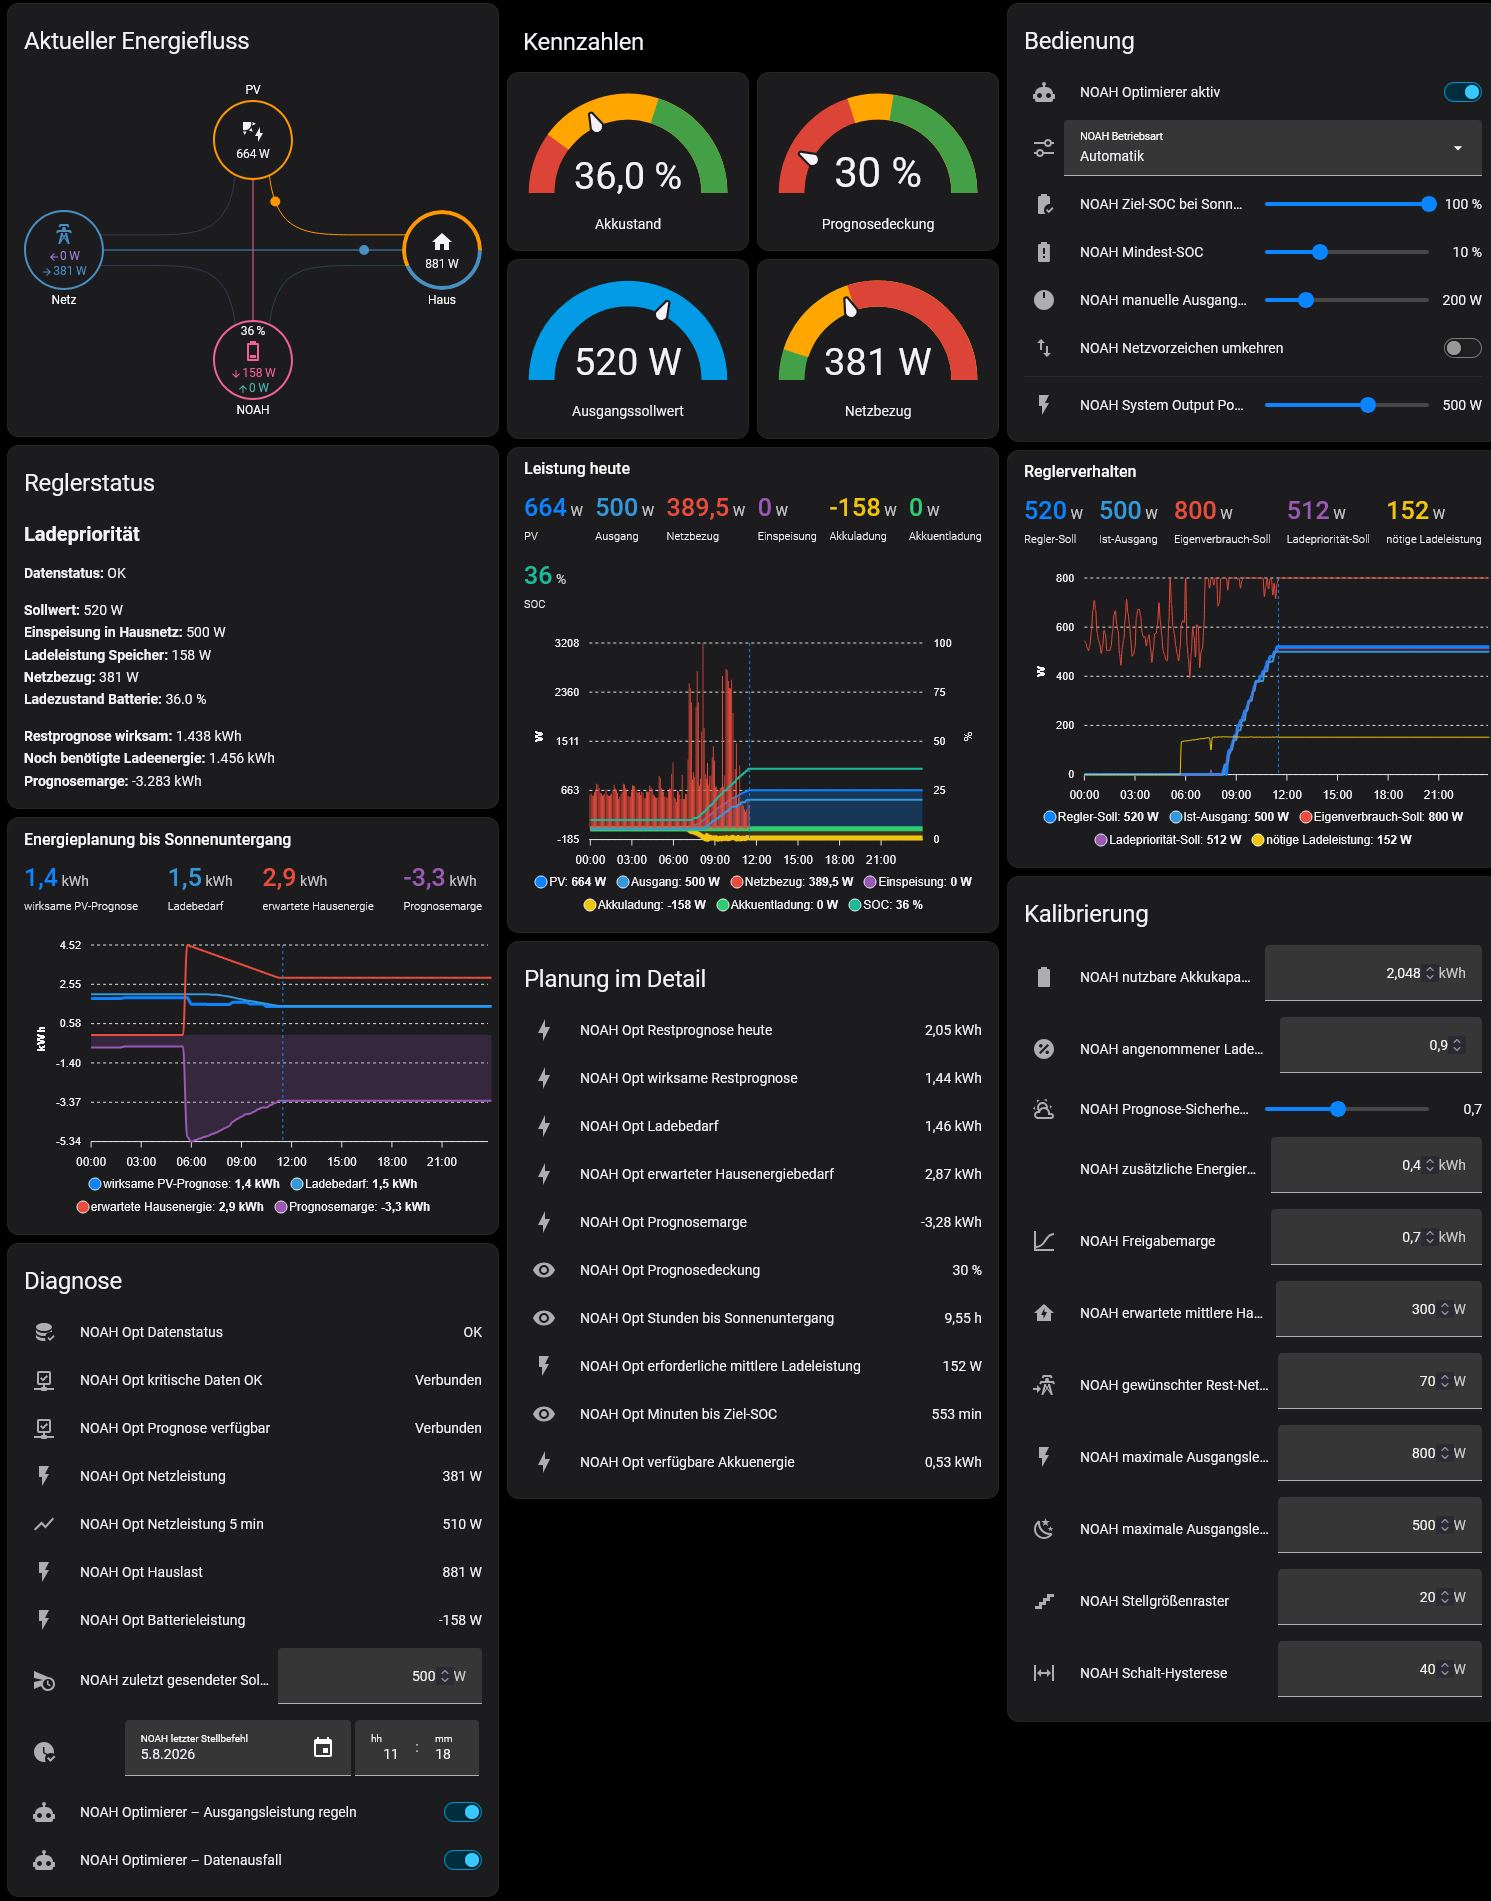
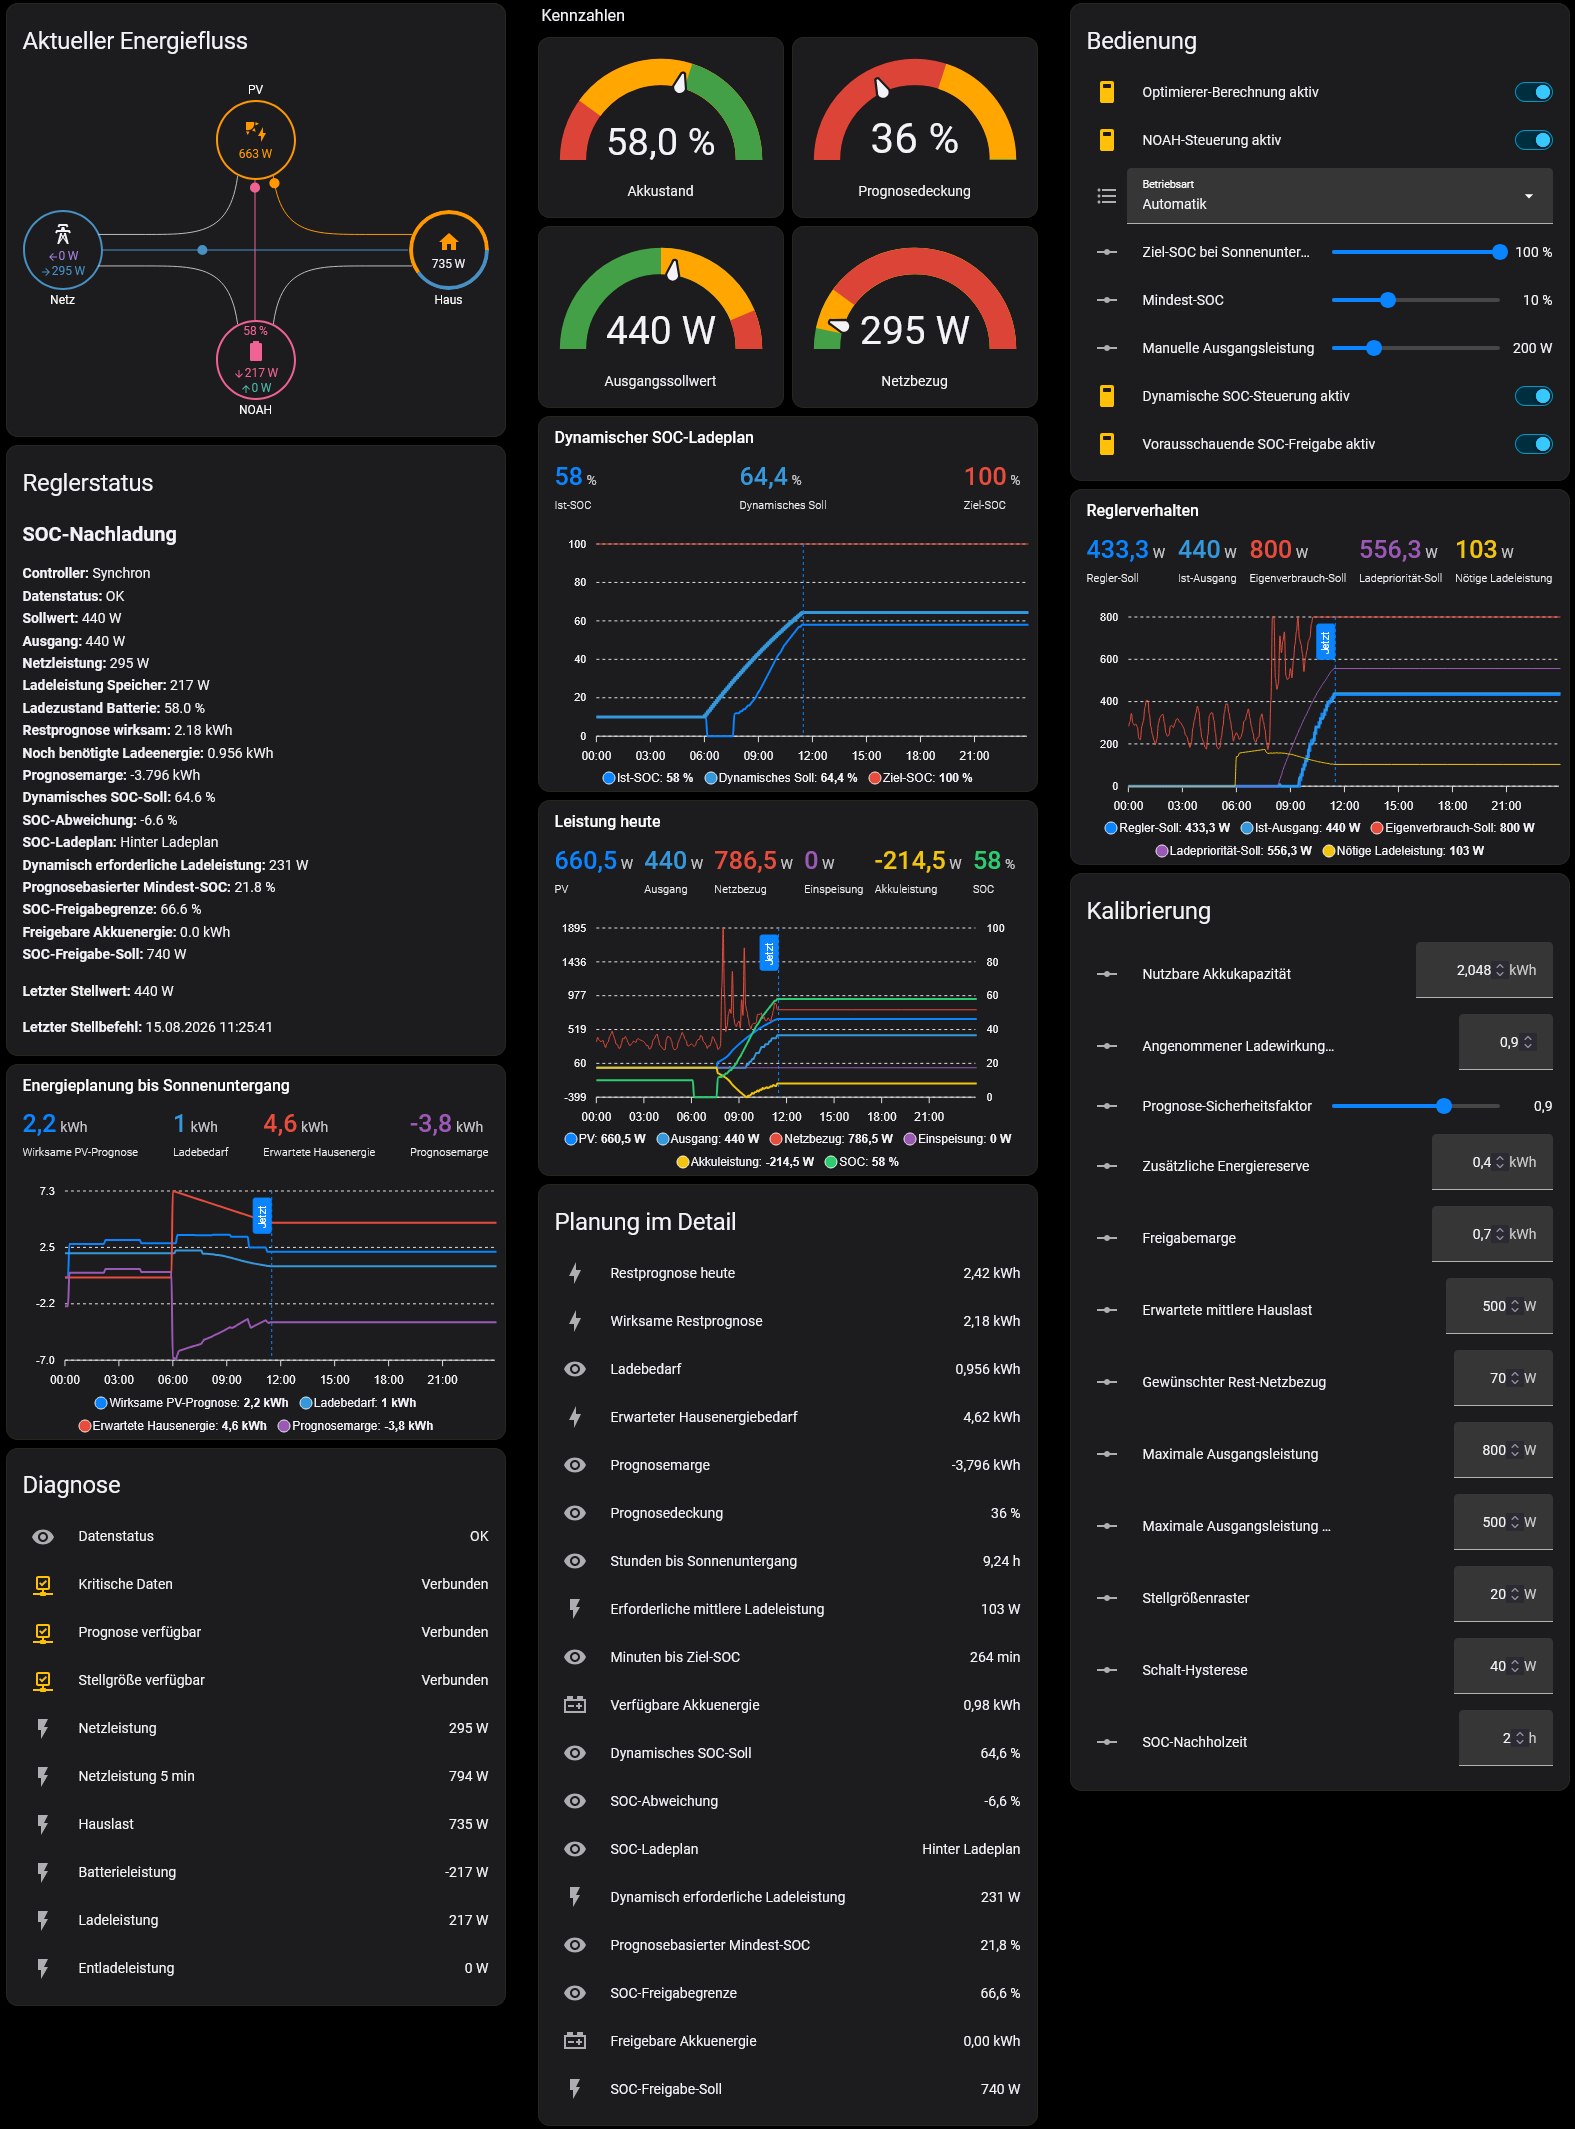
Release 2.0.0

diff --git a/README.md b/README.md
@@ -3,8 +3,9 @@
 Prognosebasierte Steuerung der Ausgangsleistung eines Growatt NOAH 2000
 über Home Assistant und Noah-MQTT.
 
-> **Status:** Beta. Die aktive Steuerung kann die NOAH-Ausgangsleistung
-> verändern und sollte während der Testphase überwacht werden.
+> **Status:** Stabiler Release `2.0.0`. Die aktive Steuerung kann die
+> NOAH-Ausgangsleistung verändern. Vor der Aktivierung sollten Quellwerte,
+> Netzvorzeichen und Stellgröße geprüft werden.
 
 [![Open your Home Assistant instance and open a repository inside the Home Assistant Community Store.](https://my.home-assistant.io/badges/hacs_repository.svg)](https://my.home-assistant.io/redirect/hacs_repository/?owner=CHLINDE&repository=home-assistant-noah-optimizer&category=integration)
 
@@ -20,13 +21,18 @@ Prognosebasierte Steuerung der Ausgangsleistung eines Growatt NOAH 2000
 
 ## HACS-Integration
 
-Eine HACS-kompatible Custom Integration ist als Beta verfügbar.
+Eine HACS-kompatible Custom Integration ist verfügbar.
 
-Aktuelle Beta:
+Aktuelle stabile Version:
 
 ```text
-2.0.0-beta.14
+2.0.0
 ```
+
+Version `2.0.0` übernimmt den Funktionsstand von `2.0.0-beta.14` unverändert.
+Gegenüber Beta 14 wurden keine Berechnungs- oder Regelalgorithmen geändert;
+nur Versionierung und Release-Dokumentation wurden auf den stabilen Stand
+umgestellt.
 
 Ab Beta 5 kann die Integration den berechneten Sollwert optional aktiv an
 `NOAH System Output Power` übertragen.
@@ -142,7 +148,7 @@ Die vollständige Anleitung steht unter:
 - [Installation](docs/installation.md)
 - [Konfiguration](docs/configuration.md)
 - [Fehlerbehebung](docs/troubleshooting.md)
-- [HACS Beta](docs/hacs-beta.md)
+- [HACS Beta / Pre-Release](docs/hacs-beta.md)
 
 ## Benötigte Quell-Entitäten
 
@@ -435,7 +441,7 @@ Die numerische SOC-Abweichung bleibt weiterhin verfügbar.
 
 ### Sichere Aktivierung
 
-Nach dem Update auf Beta 14 sollte zunächst gelten:
+Nach einer Neuinstallation oder dem Update auf `2.0.0` sollte zunächst gelten:
 
 ```text
 NOAH-Steuerung aktiv = Aus
@@ -845,6 +851,16 @@ Nachtstatus, PV-Umlenkung und zentrale Controllerstatus-Anzeige:
 - PV-Umlenkung verwendet wie SOC-Freigabe die schnelle 15-/30-Sekunden-Lastnachführung und sofortige Absenkung
 - Dashboard-Template-Version von 10 auf 11 erhöht
 - bestehende Reglerstatus-Karten werden gezielt migriert
+
+### 2.0.0
+
+Erster stabiler Release der 2.x-Reihe:
+
+- Funktionsstand entspricht `2.0.0-beta.14`
+- keine Änderung an Optimizer-Berechnung oder aktiver NOAH-Regelung gegenüber Beta 14
+- keine neuen Entitäten, Schalter oder Dashboardelemente
+- Dashboard-Template-Version bleibt 11
+- Versions- und Release-Dokumentation auf stabilen Betrieb umgestellt
 
 ## Legacy-YAML-Optimizer
 

diff --git a/CHANGELOG.md b/CHANGELOG.md
@@ -1,3 +1,25 @@
+## [2.0.0]
+
+### Release
+
+- First stable release of the 2.x integration
+- Promoted the tested `2.0.0-beta.14` feature set to stable `2.0.0`
+- No optimizer-calculation, active-control, entity-model, or dashboard-logic changes compared with `2.0.0-beta.14`
+
+### Changed
+
+- Integration version changed from `2.0.0-beta.14` to `2.0.0`
+- README, installation, configuration, HACS pre-release, and troubleshooting documentation updated for the stable release
+- Dashboard template version remains 11
+
+### Safety
+
+Active NOAH control remains opt-in and all existing controller safeguards remain
+unchanged. Upgrading from `2.0.0-beta.14` does not change the configured control
+behavior.
+
+---
+
 ## [2.0.0-beta.14]
 
 ### Added
